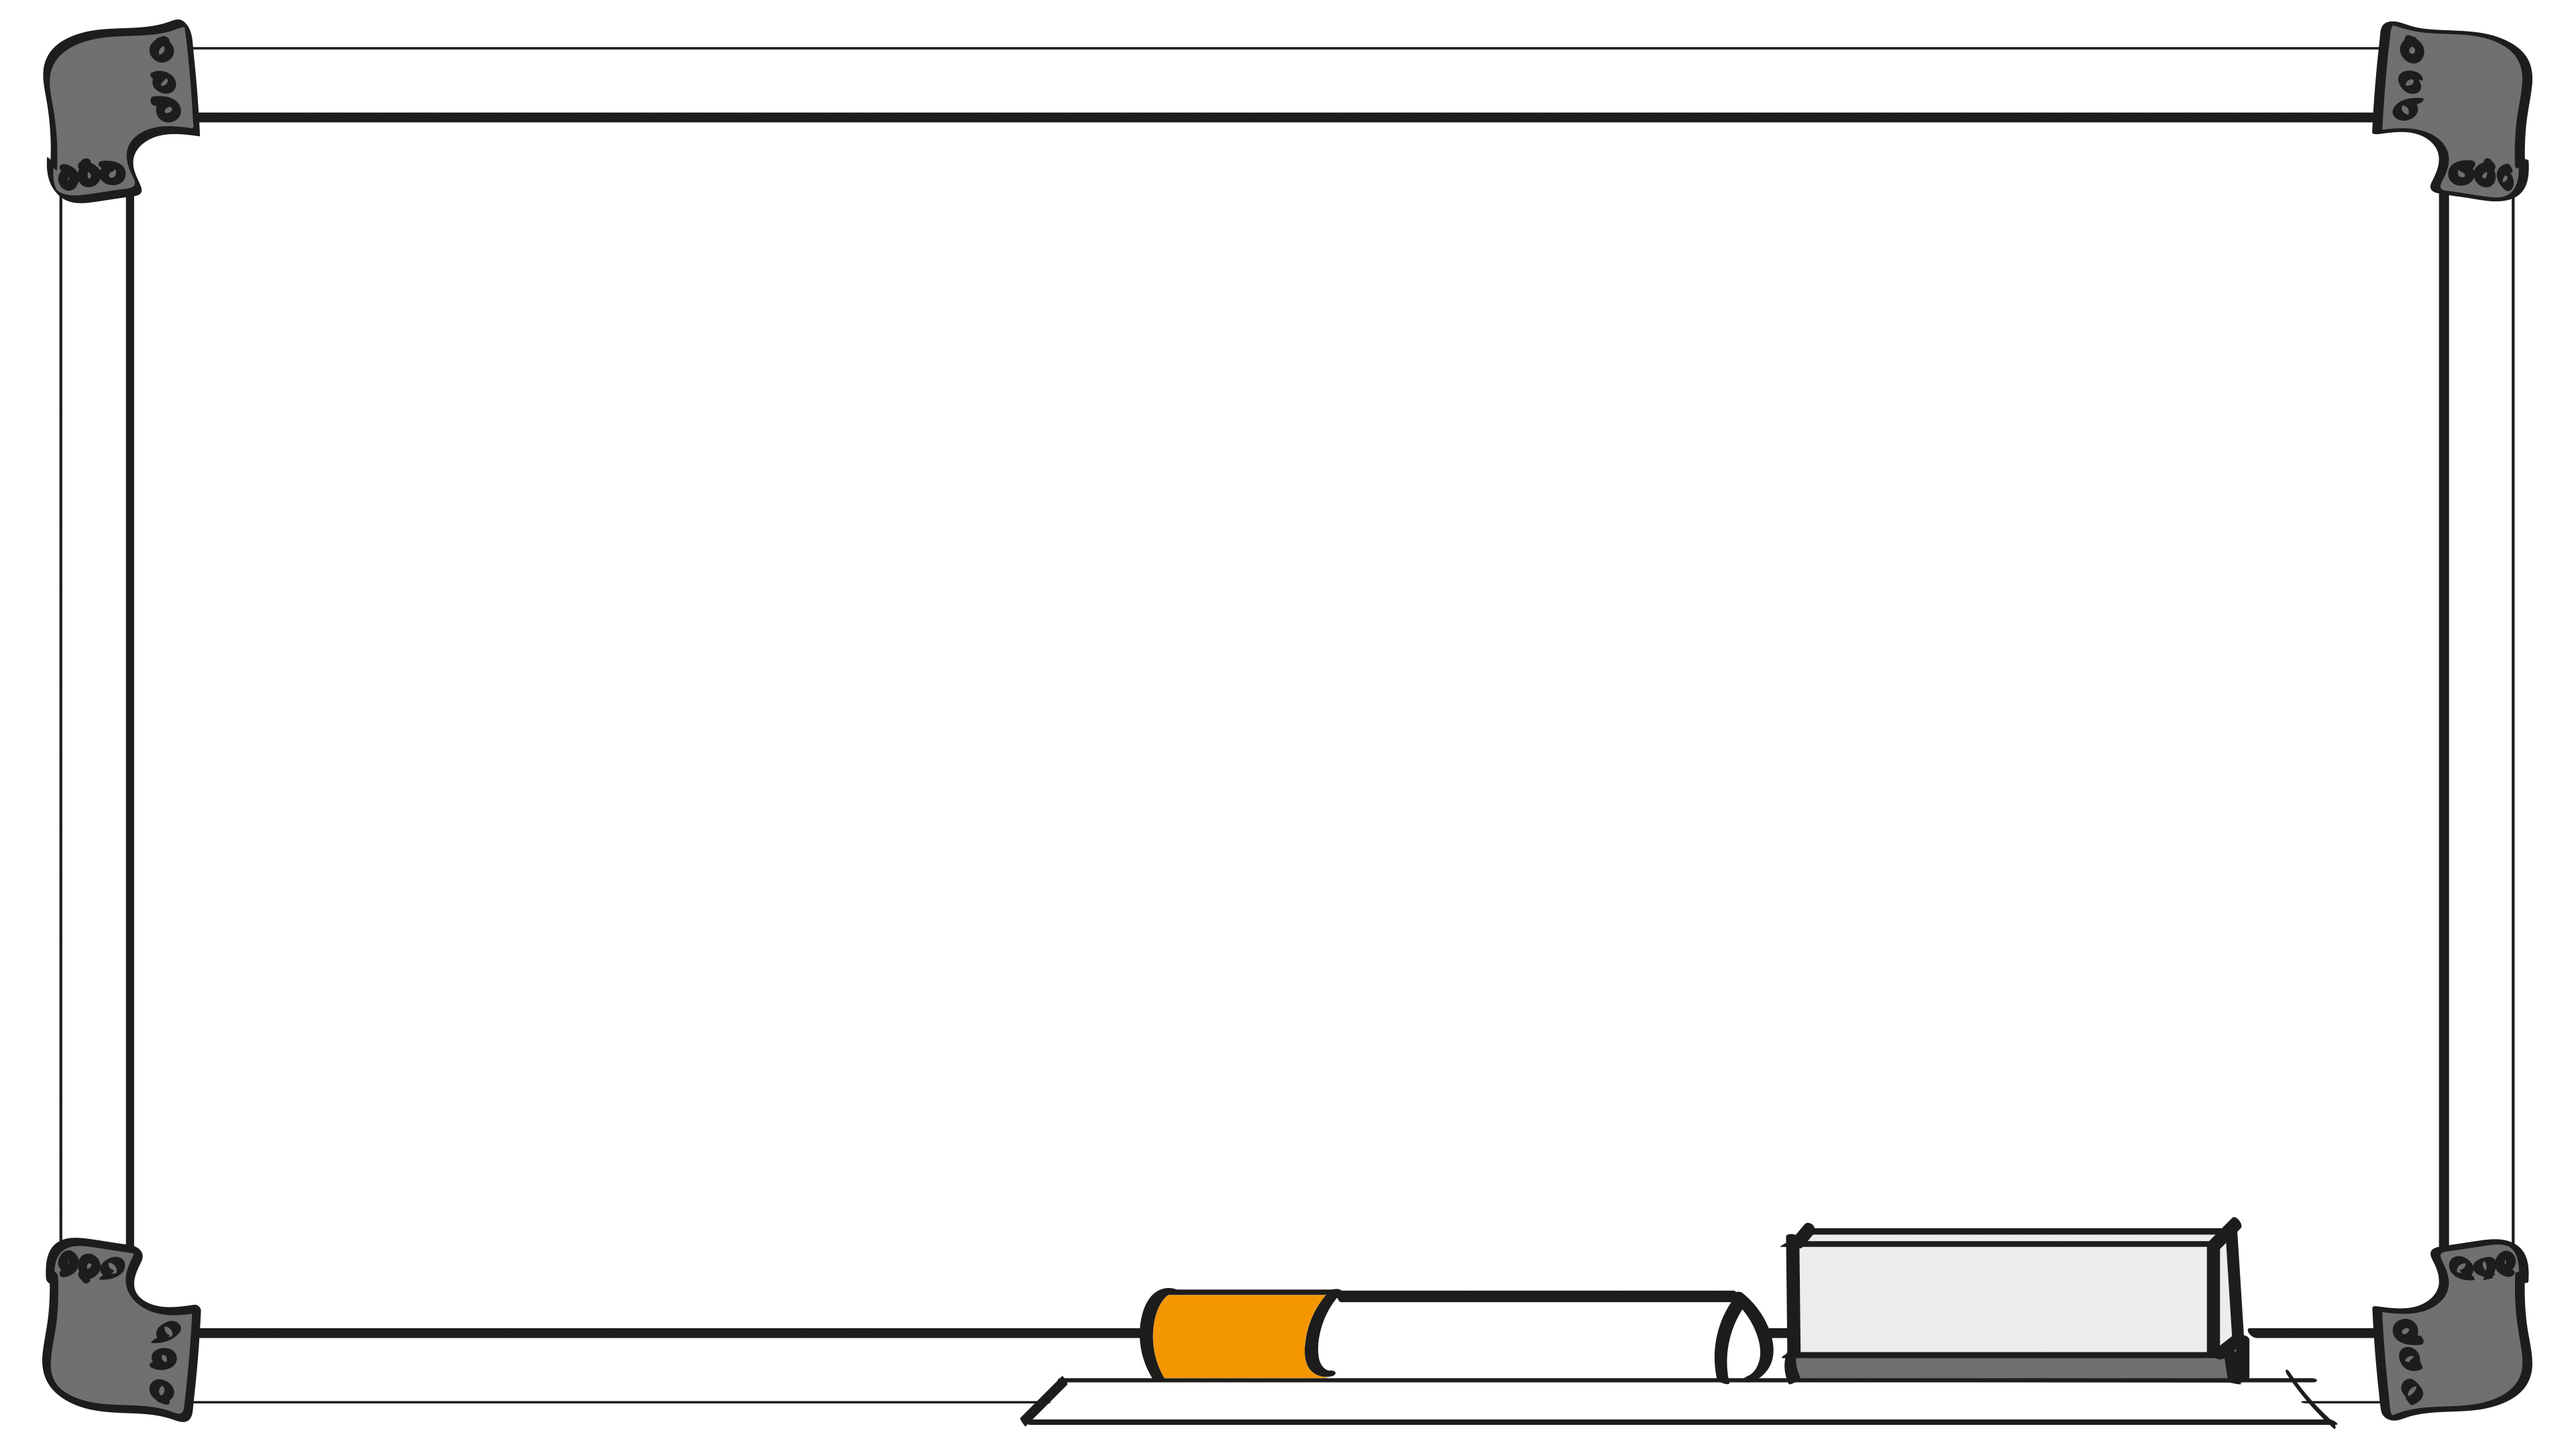
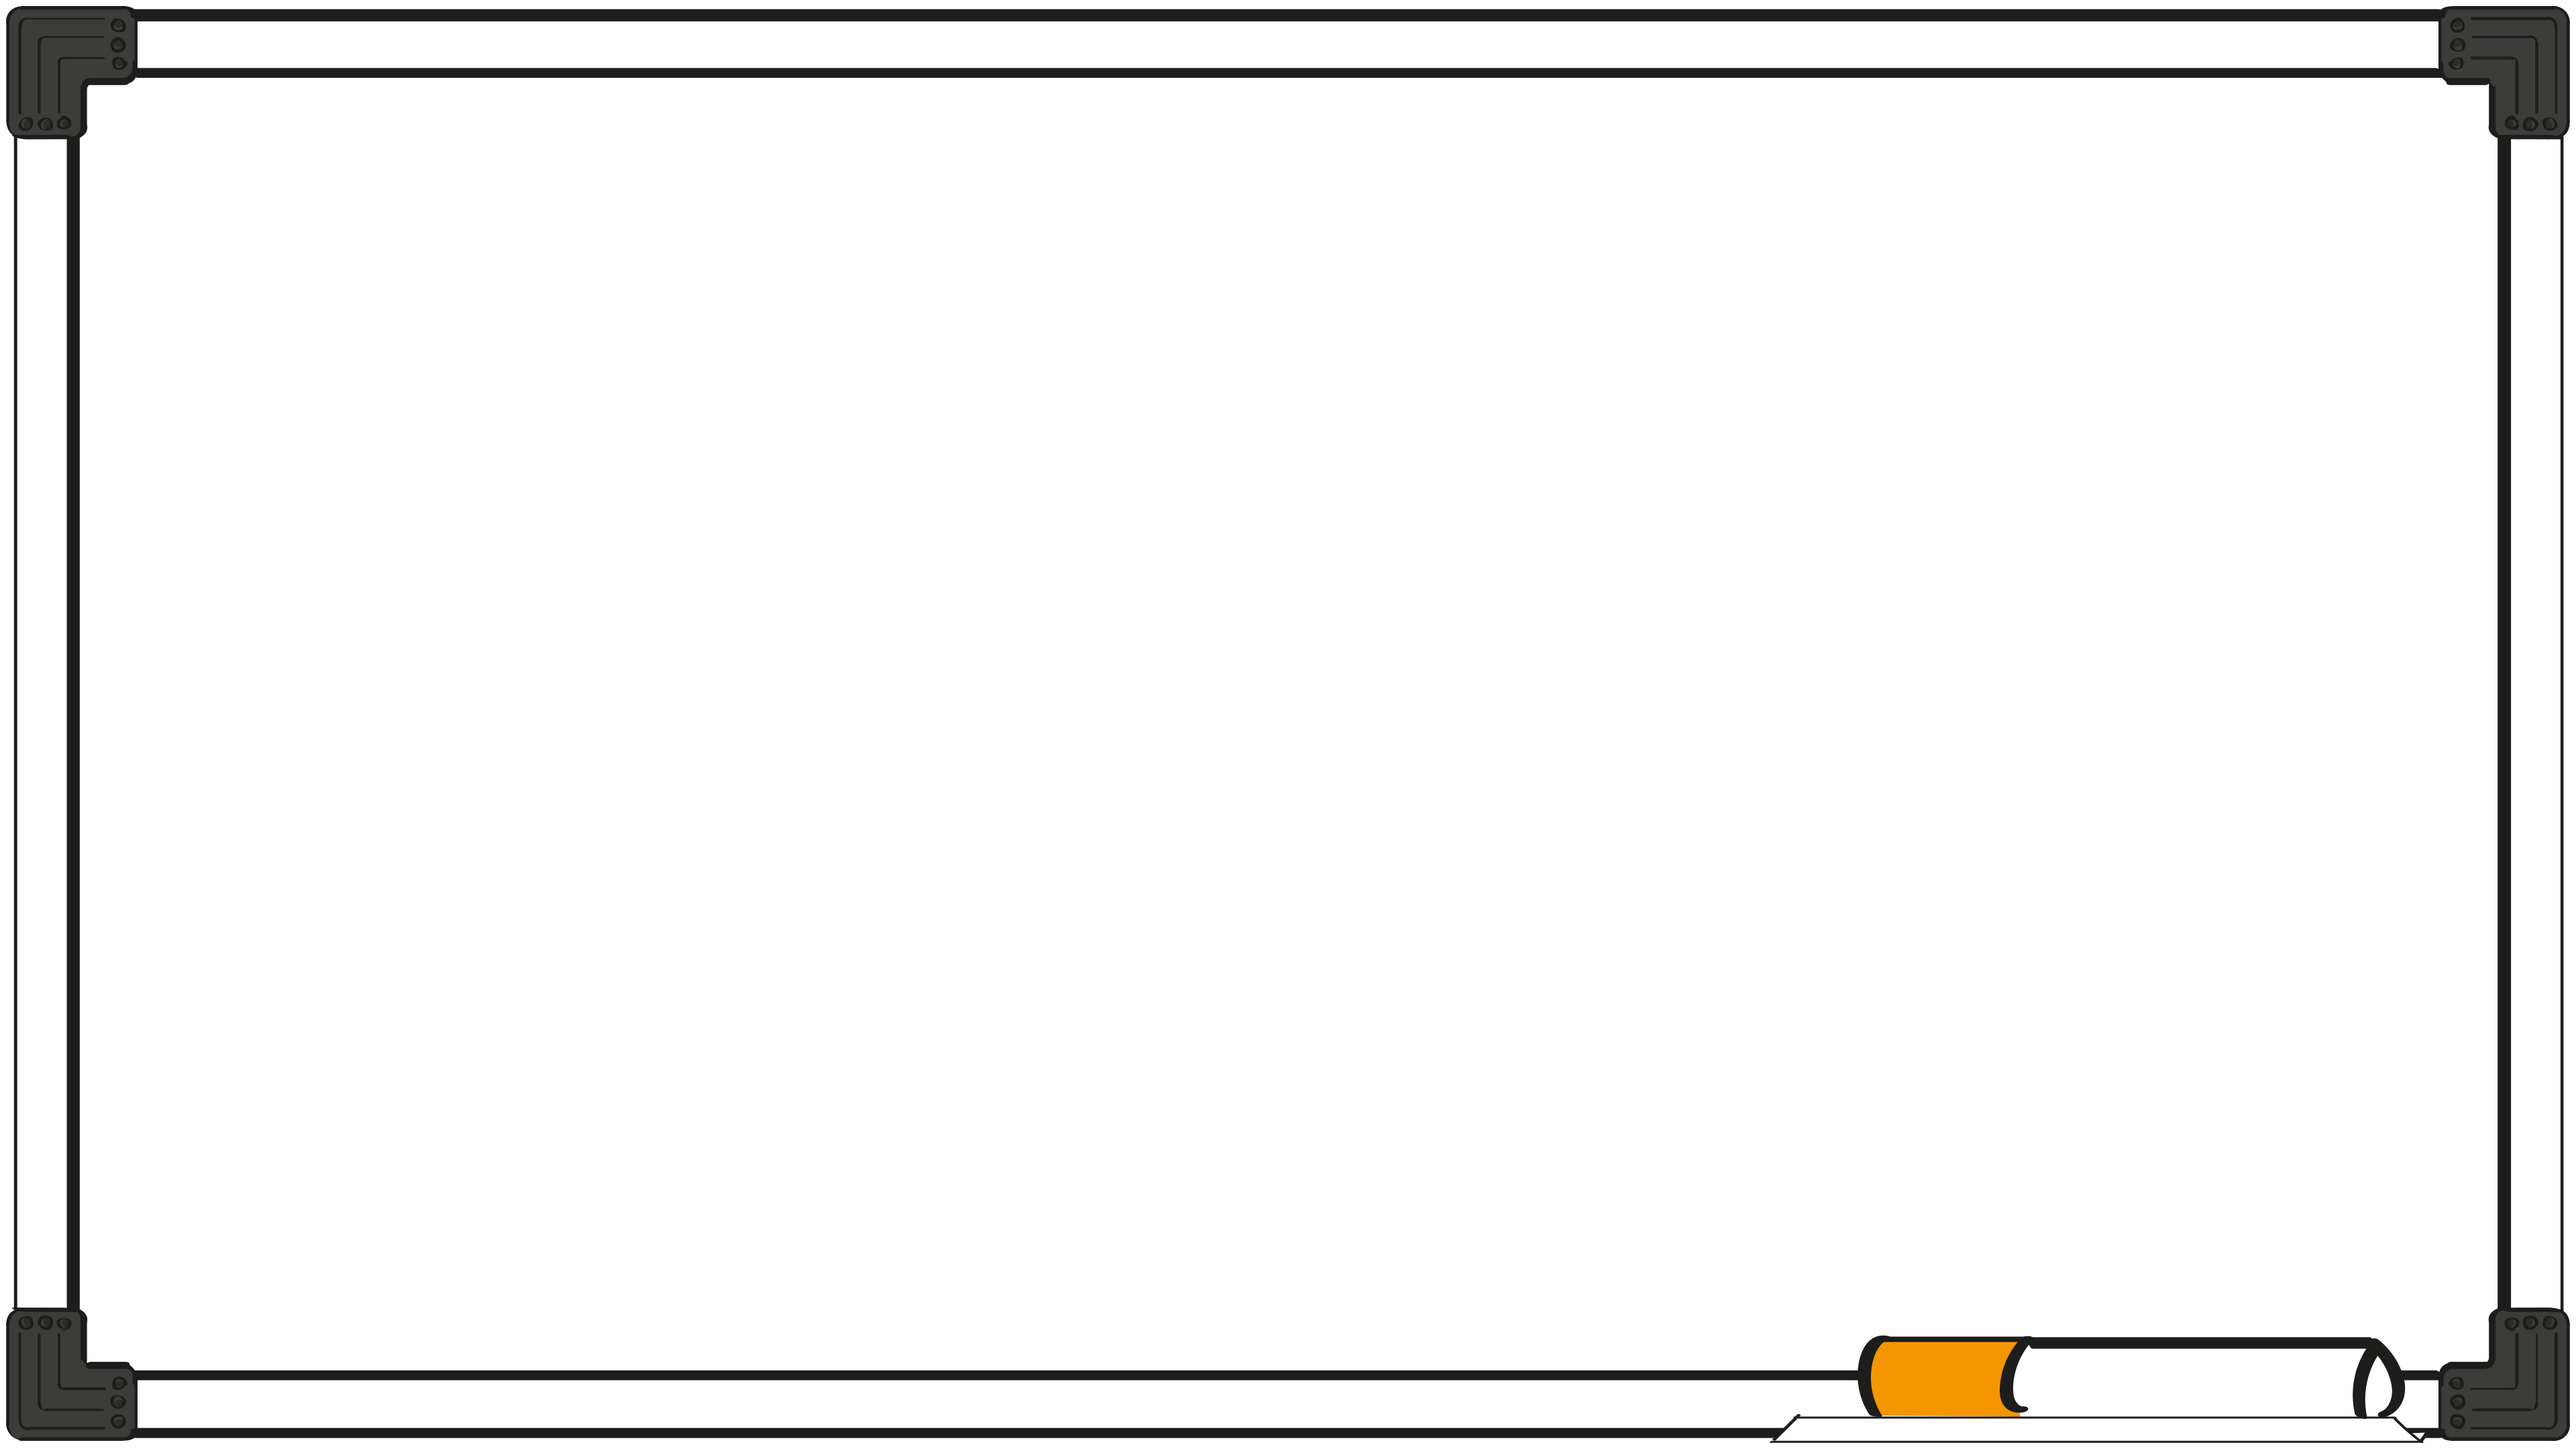
implemented newest codeacademy theme layout

Changed region(s): [[0.0, 0.0, 1.0, 1.0]]

diff --git a/theme/codeacc-simple.css b/theme/codeacc-simple.css
@@ -12,10 +12,8 @@
 
 
 body {
-      background-image: url('../code-academy/continuous-delivery-story/img/board.png');
+      background-image: url('../code-academy/res/img/board.png');
       background-repeat: no-repeat;
-      background-position: 0%;
-      background-size: cover;
-      /*background-position: 2% 96%, 80% 96%;
-      background-size: 8%,70%;*/
+      background-size:contain;
+     background-position:center; 
 }
